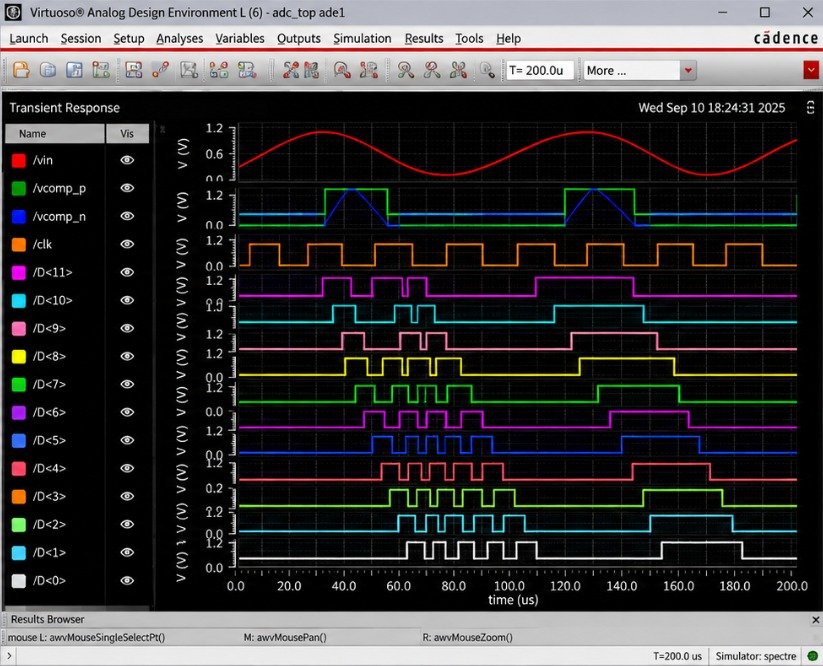
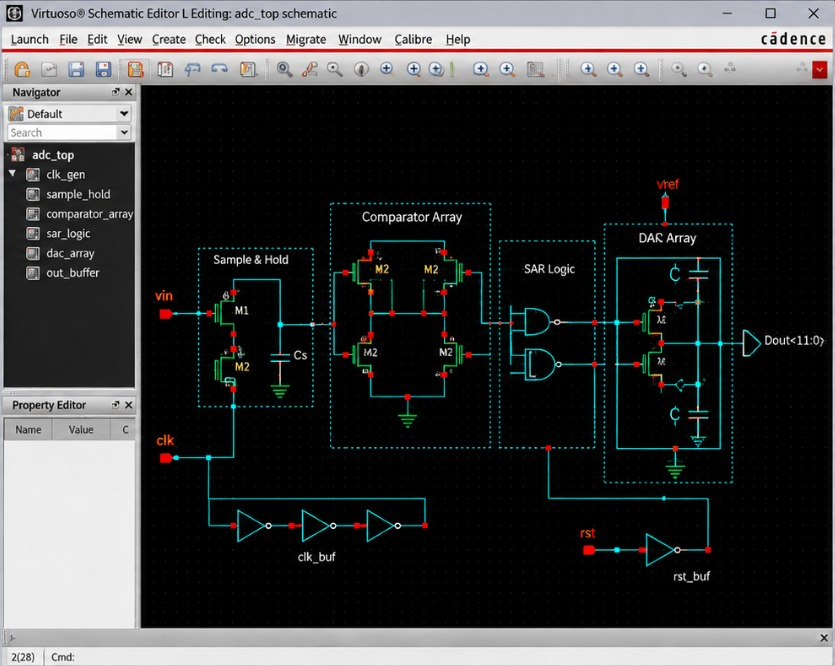
Fix: Add cache buster to images and update latest project photos

diff --git a/src/data/portfolio.ts b/src/data/portfolio.ts
@@ -51,7 +51,7 @@ export const PORTFOLIO_DATA = {
       title: "CONFIGURABLE FLOATING-POINT FMA UNIT",
       subtitle: "Mixed-Precision Arithmetic Architecture",
       category: "RTL DESIGN / FPGA / COMPUTER ARITHMETIC",
-      image: "/projects/fma-unit.jpeg",
+      image: "/projects/fma-unit.jpeg?v=2",
       description: "Designed a configurable floating-point fused multiply-add (FMA) architecture supporting mixed-precision computation. The design was implemented using Verilog HDL and evaluated using Xilinx Vivado, with emphasis on arithmetic correctness, configurability, and hardware implementation.",
       technologies: ["Verilog HDL", "Xilinx Vivado", "XSim", "RTL Design", "FPGA"],
       focus: ["Floating-point arithmetic", "Mixed-precision computation", "RTL architecture", "FPGA implementation", "Hardware optimization"],
@@ -67,7 +67,7 @@ export const PORTFOLIO_DATA = {
       title: "APPROXIMATE MULTIPLIER",
       subtitle: "Hardware-Efficient Approximate Arithmetic",
       category: "VLSI / APPROXIMATE COMPUTING",
-      image: "/projects/approximatemultiplier.png",
+      image: "/projects/approximatemultiplier.png?v=2",
       description: "Designed an approximate multiplier using approximate compressor structures to investigate the trade-off between arithmetic accuracy and hardware cost. The architecture was implemented using Verilog HDL and evaluated using FPGA-oriented simulation and synthesis.",
       technologies: ["Verilog HDL", "Xilinx Vivado", "RTL Design", "FPGA"],
       architecture: [
@@ -83,7 +83,7 @@ export const PORTFOLIO_DATA = {
       title: "12-bit Analog-to-Digital Converter",
       subtitle: "Cadence-Based Mixed-Signal IC Design",
       category: "MIXED-SIGNAL IC DESIGN",
-      image: "/projects/12bitdigitaltoanalogconverter.jpeg",
+      image: "/projects/12bitdigitaltoanalogconverter.jpeg?v=2",
       description: "Designed and simulated a 12-bit Analog-to-Digital Converter using Cadence, exploring mixed-signal circuit implementation and digital output behavior.",
       technologies: ["Cadence Virtuoso", "Circuit Simulation", "Mixed-Signal IC Design"],
       architecture: [
@@ -99,7 +99,7 @@ export const PORTFOLIO_DATA = {
       title: "TERAHERTZ METAMATERIAL ABSORBER-BASED SKIN CANCER DETECTION SYSTEM",
       subtitle: "Research Project — Electromagnetic Sensing",
       category: "RESEARCH / ELECTROMAGNETICS",
-      image: "/projects/terahertz.jpeg",
+      image: "/projects/terahertz.jpeg?v=2",
       description: "Designed and investigated a terahertz metamaterial absorber for skin cancer detection applications. The structure was modeled and simulated using CST Studio Suite, followed by analysis of S-parameters, absorption characteristics, and resonance behavior for different tissue conditions.",
       technologies: ["CST Studio Suite", "Electromagnetic Simulation", "S-Parameter Analysis", "Metamaterials"],
       architecture: [
@@ -113,7 +113,7 @@ export const PORTFOLIO_DATA = {
       id: "05",
       title: "DECENTRALIZED NETWORKS",
       category: "DECENTRALIZED SYSTEMS / NETWORKS",
-      image: "/projects/decentralized.png",
+      image: "/projects/decentralized.png?v=2",
       description: "Explored the concepts and architecture of decentralized networks, focusing on distributed communication, peer-to-peer connectivity, and the principles of network decentralization.",
       focus: ["Decentralized Systems", "Distributed Networks", "Peer-to-Peer Communication", "Network Architecture"],
 
@@ -124,7 +124,7 @@ export const PORTFOLIO_DATA = {
       id: "06",
       title: "IoT-BASED MINING WORKER SAFETY HELMET",
       category: "EMBEDDED / IoT",
-      image: "/projects/smartmining.png",
+      image: "/projects/smartmining.png?v=2",
       description: "Developed an IoT-enabled safety system designed to monitor environmental and worker-safety parameters in mining environments using sensors, microcontrollers, and cloud-based monitoring.",
       technologies: ["Arduino / ESP32", "Sensors", "IoT", "ThingSpeak"],
 
@@ -135,7 +135,7 @@ export const PORTFOLIO_DATA = {
       id: "07",
       title: "SMART AGRICULTURE MONITORING SYSTEM",
       category: "EMBEDDED / IoT",
-      image: "/projects/smartgreenhouse.png",
+      image: "/projects/smartgreenhouse.png?v=2",
       description: "Developed an IoT-based agricultural monitoring system for sensing environmental conditions and supporting data-driven monitoring of agricultural parameters.",
       technologies: ["Arduino / ESP32", "Sensors", "IoT", "ThingSpeak"],
 
@@ -148,7 +148,7 @@ export const PORTFOLIO_DATA = {
       title: "RESEARCH INTERN — NIT JAMSHEDPUR",
       project: "Terahertz Metamaterial Absorber-Based Skin Cancer Detection System",
       date: "18 May 2026 – 18 June 2026",
-      image: "/experience/nit-jamshedpur.jpg",
+      image: "/experience/nit-jamshedpur.jpg?v=2",
       description: "Completed a research internship at NIT Jamshedpur focused on the design and investigation of a terahertz metamaterial absorber for skin cancer detection applications.",
       details: [
         "Designed and modeled metamaterial structures.",
@@ -163,7 +163,7 @@ export const PORTFOLIO_DATA = {
       title: "FACULTY DEVELOPMENT PROGRAM — FPGA-BASED COMMUNICATION SYSTEM DESIGN",
       project: "FCSD-2026 | Electronics & ICT Academy, NIT Patna & NIT Jamshedpur",
       date: "25 May 2026 – 5 June 2026",
-      image: "/experience/fcsd-2026.jpg",
+      image: "/experience/fcsd-2026.jpg?v=2",
       description: "Completed the Faculty Development Program on “FPGA-Based Communication System Design (FCSD-2026)”, jointly organized by Electronics & ICT Academy, NIT Patna and NIT Jamshedpur under the Ministry of Electronics and Information Technology (MeitY), Government of India.",
       details: [
         "FPGA-based system design",
@@ -176,7 +176,7 @@ export const PORTFOLIO_DATA = {
       title: "VLSI PROJECT-BASED INTERN — EDXCELLENCE",
       project: "",
       date: "20 January 2026 – 18 March 2026",
-      image: "/experience/edxcellence-vlsi.jpg",
+      image: "/experience/edxcellence-vlsi.jpg?v=2",
       description: "Completed a project-based internship in Very-Large-Scale Integration (VLSI) with EdXcellence, an AICTE- and APSCHE-approved organization.",
       details: [
         "VLSI design concepts",
@@ -189,7 +189,7 @@ export const PORTFOLIO_DATA = {
       title: "ELECTRONICS & TELECOMMUNICATION INTERN — CENTRAL COALFIELDS LIMITED",
       project: "Smart Greenhouse Monitoring System | Ranchi, Jharkhand",
       date: "01 June 2025 – 30 June 2025",
-      image: "/experience/central-coalfields.jpg",
+      image: "/experience/central-coalfields.jpg?v=2",
       description: "Completed an internship in the Department of Electronics & Telecommunication (E&T) at Central Coalfields Limited, Ranchi, where I worked on a Smart Greenhouse Monitoring System.",
       details: [
         "Sensor interfacing",
@@ -203,7 +203,7 @@ export const PORTFOLIO_DATA = {
       title: "MATLAB & ENGINEERING APPLICATIONS TRAINING",
       project: "NIST University, Berhampur",
       date: "12 July 2024 – 1 August 2024",
-      image: "/experience/matlab-training.jpg",
+      image: "/experience/matlab-training.jpg?v=2",
       description: "Completed practical training in MATLAB and its applications in engineering, developing foundational skills in numerical computation, analysis, simulation, and engineering problem-solving.",
       details: []
     }
